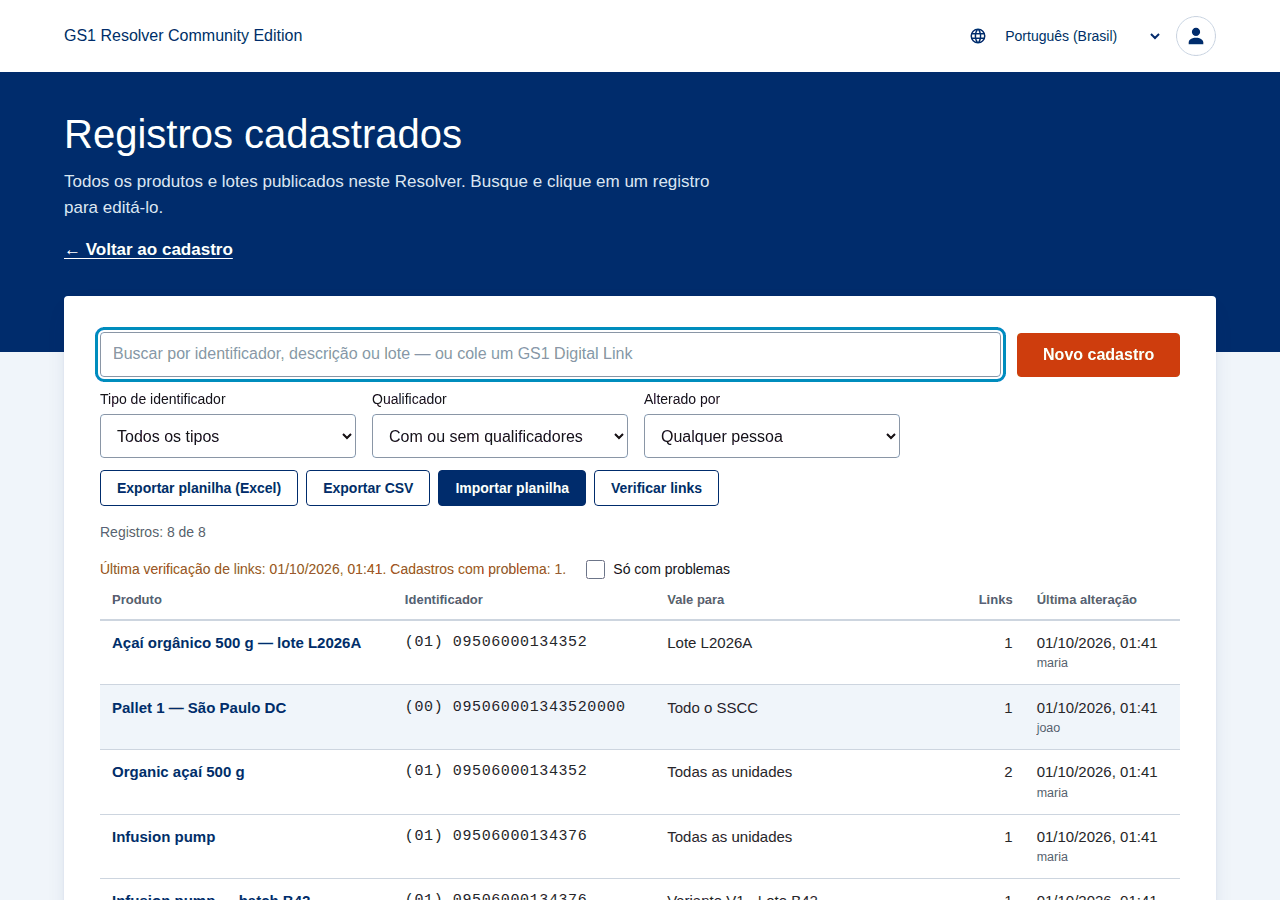
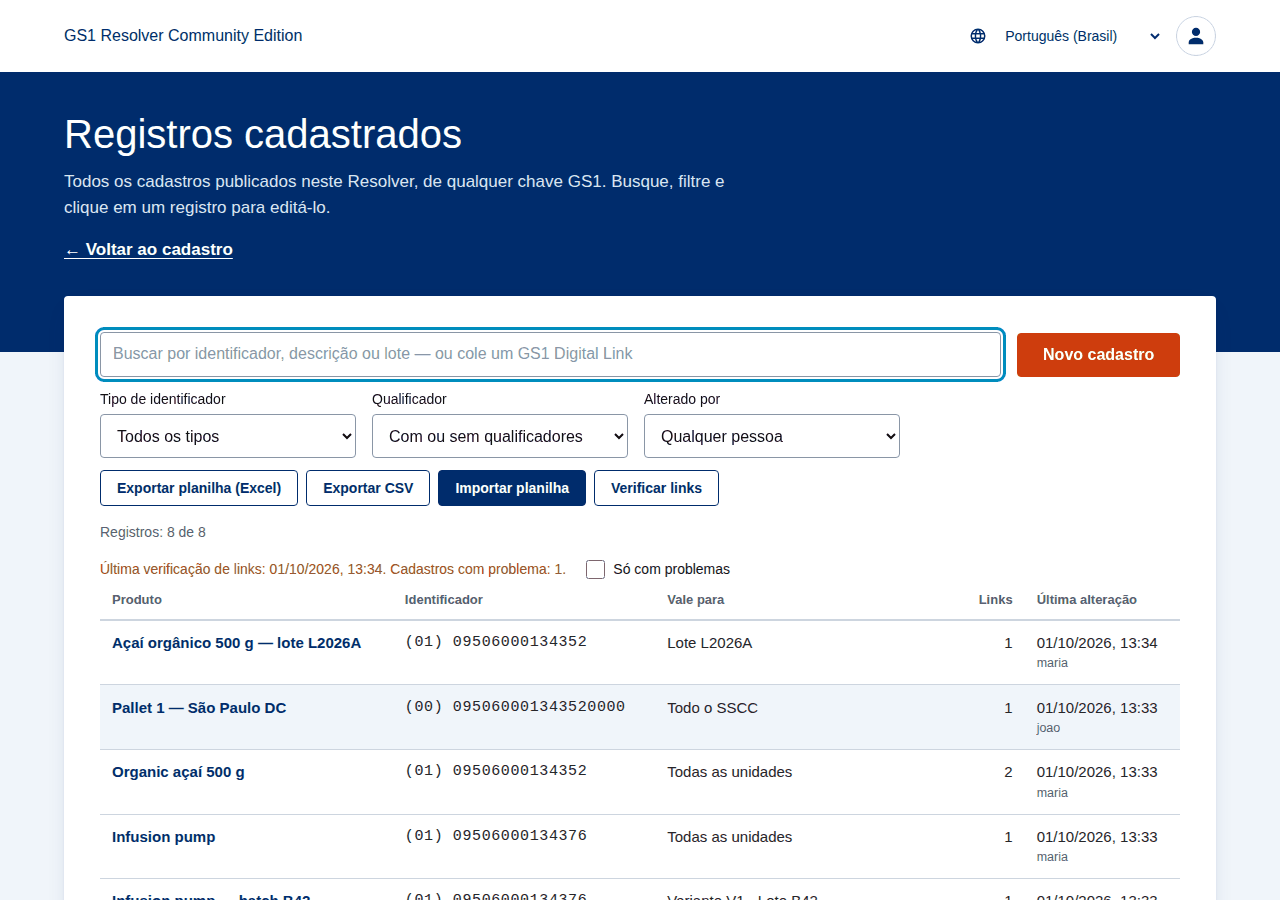
home, portal: texts cover every GS1 key, not only GTINs and batches
The home page's portal card and the record list's lede still described the 1.0.0 portal (GTINs and
batches). Both languages updated; screenshots of the home page and the record list regenerated.

diff --git a/frontend_proxy_server/home/home.js b/frontend_proxy_server/home/home.js
@@ -39,7 +39,7 @@
       "hero.lede": "Este endereço resolve GS1 Digital Links: quem lê o QR Code de um produto é levado às informações publicadas pela empresa dona da marca.",
       "here.title": "Neste Resolver",
       "card.portal.title": "Portal de cadastro de links",
-      "card.portal.text": "Cadastre GTINs e lotes e defina para onde leva o QR Code GS1 Digital Link de cada produto. Requer usuário e senha.",
+      "card.portal.text": "Cadastre produtos, lotes, séries, locais, unidades logísticas, documentos e ativos identificados com chaves GS1 e defina para onde leva o QR Code GS1 Digital Link de cada um. Requer usuário e senha.",
       "card.portal.action": "Abrir o portal",
       "card.api.title": "API do Resolver (Swagger UI)",
       "card.api.text": "Documentação interativa da API de cadastro do Resolver CE, a página exibida antes na raiz deste endereço. Para integrações entre sistemas; gravar exige token de acesso.",
@@ -72,7 +72,7 @@
       "hero.lede": "This address resolves GS1 Digital Links: scanning the QR code on a product takes you to the information its brand owner has published.",
       "here.title": "On this resolver",
       "card.portal.title": "Link management portal",
-      "card.portal.text": "Register GTINs and batches and choose where each product's GS1 Digital Link QR code leads. Requires a username and password.",
+      "card.portal.text": "Register products, batches, serial numbers, locations, logistic units, documents and assets identified by GS1 keys and choose where each GS1 Digital Link QR code leads. Requires a username and password.",
       "card.portal.action": "Open the portal",
       "card.api.title": "Resolver API (Swagger UI)",
       "card.api.text": "Interactive documentation of the Resolver CE data entry API, previously shown at the root of this address. For system integrations; writing requires an access token.",

diff --git a/portal/static/i18n.js b/portal/static/i18n.js
@@ -114,7 +114,7 @@ const I18N = (() => {
       "audit.action.user-reset": "Senha redefinida",
       "audit.action.user-remove": "Usuário excluído",
       "records.title": "Registros cadastrados",
-      "records.lede": "Todos os produtos e lotes publicados neste Resolver. Busque e clique em um registro para editá-lo.",
+      "records.lede": "Todos os cadastros publicados neste Resolver, de qualquer chave GS1. Busque, filtre e clique em um registro para editá-lo.",
       "records.link": "Ver registros cadastrados →",
       "records.back": "← Voltar ao cadastro",
       "records.search": "Buscar registros",
@@ -980,7 +980,7 @@ const I18N = (() => {
       "audit.action.user-reset": "Password reset",
       "audit.action.user-remove": "User removed",
       "records.title": "Registered records",
-      "records.lede": "Every product and batch published on this resolver. Search and select a record to edit it.",
+      "records.lede": "Every record published on this resolver, for any GS1 key. Search, filter and select a record to edit it.",
       "records.link": "See registered records →",
       "records.back": "← Back to the editor",
       "records.search": "Search records",

diff --git a/frontend_proxy_server/home/index.html b/frontend_proxy_server/home/index.html
@@ -68,7 +68,7 @@
         <ul class="cards">
           <li class="card card-main">
             <h3><a href="/portal/" data-i18n="card.portal.title">Link management portal</a></h3>
-            <p data-i18n="card.portal.text">Register GTINs and batches and choose where each product's GS1 Digital Link QR code leads. Requires a username and password.</p>
+            <p data-i18n="card.portal.text">Register products, batches, serial numbers, locations, logistic units, documents and assets identified by GS1 keys and choose where each GS1 Digital Link QR code leads. Requires a username and password.</p>
             <a class="btn btn-primary" href="/portal/" data-i18n="card.portal.action" tabindex="-1" aria-hidden="true">Open the portal</a>
           </li>
           <li class="card">

diff --git a/Documentation/extensions/CHANGELOG.md b/Documentation/extensions/CHANGELOG.md
@@ -2,6 +2,10 @@
 
 ## Unreleased (branch gs1br/develop)
 
+### Home page and record list: texts cover every GS1 key
+- The portal card of the home page and the lede of *Registered records* no longer speak of GTINs and
+  batches only: the portal registers every primary key and key qualifier.
+
 ### Documentation in Brazilian Portuguese
 - `Documentation/pt-BR/`: overview with installation, configuration and operation (`README.md`), portal
   user guide (`guia-do-portal.md`), features (`funcionalidades.md`), history (`historico.md`) and
